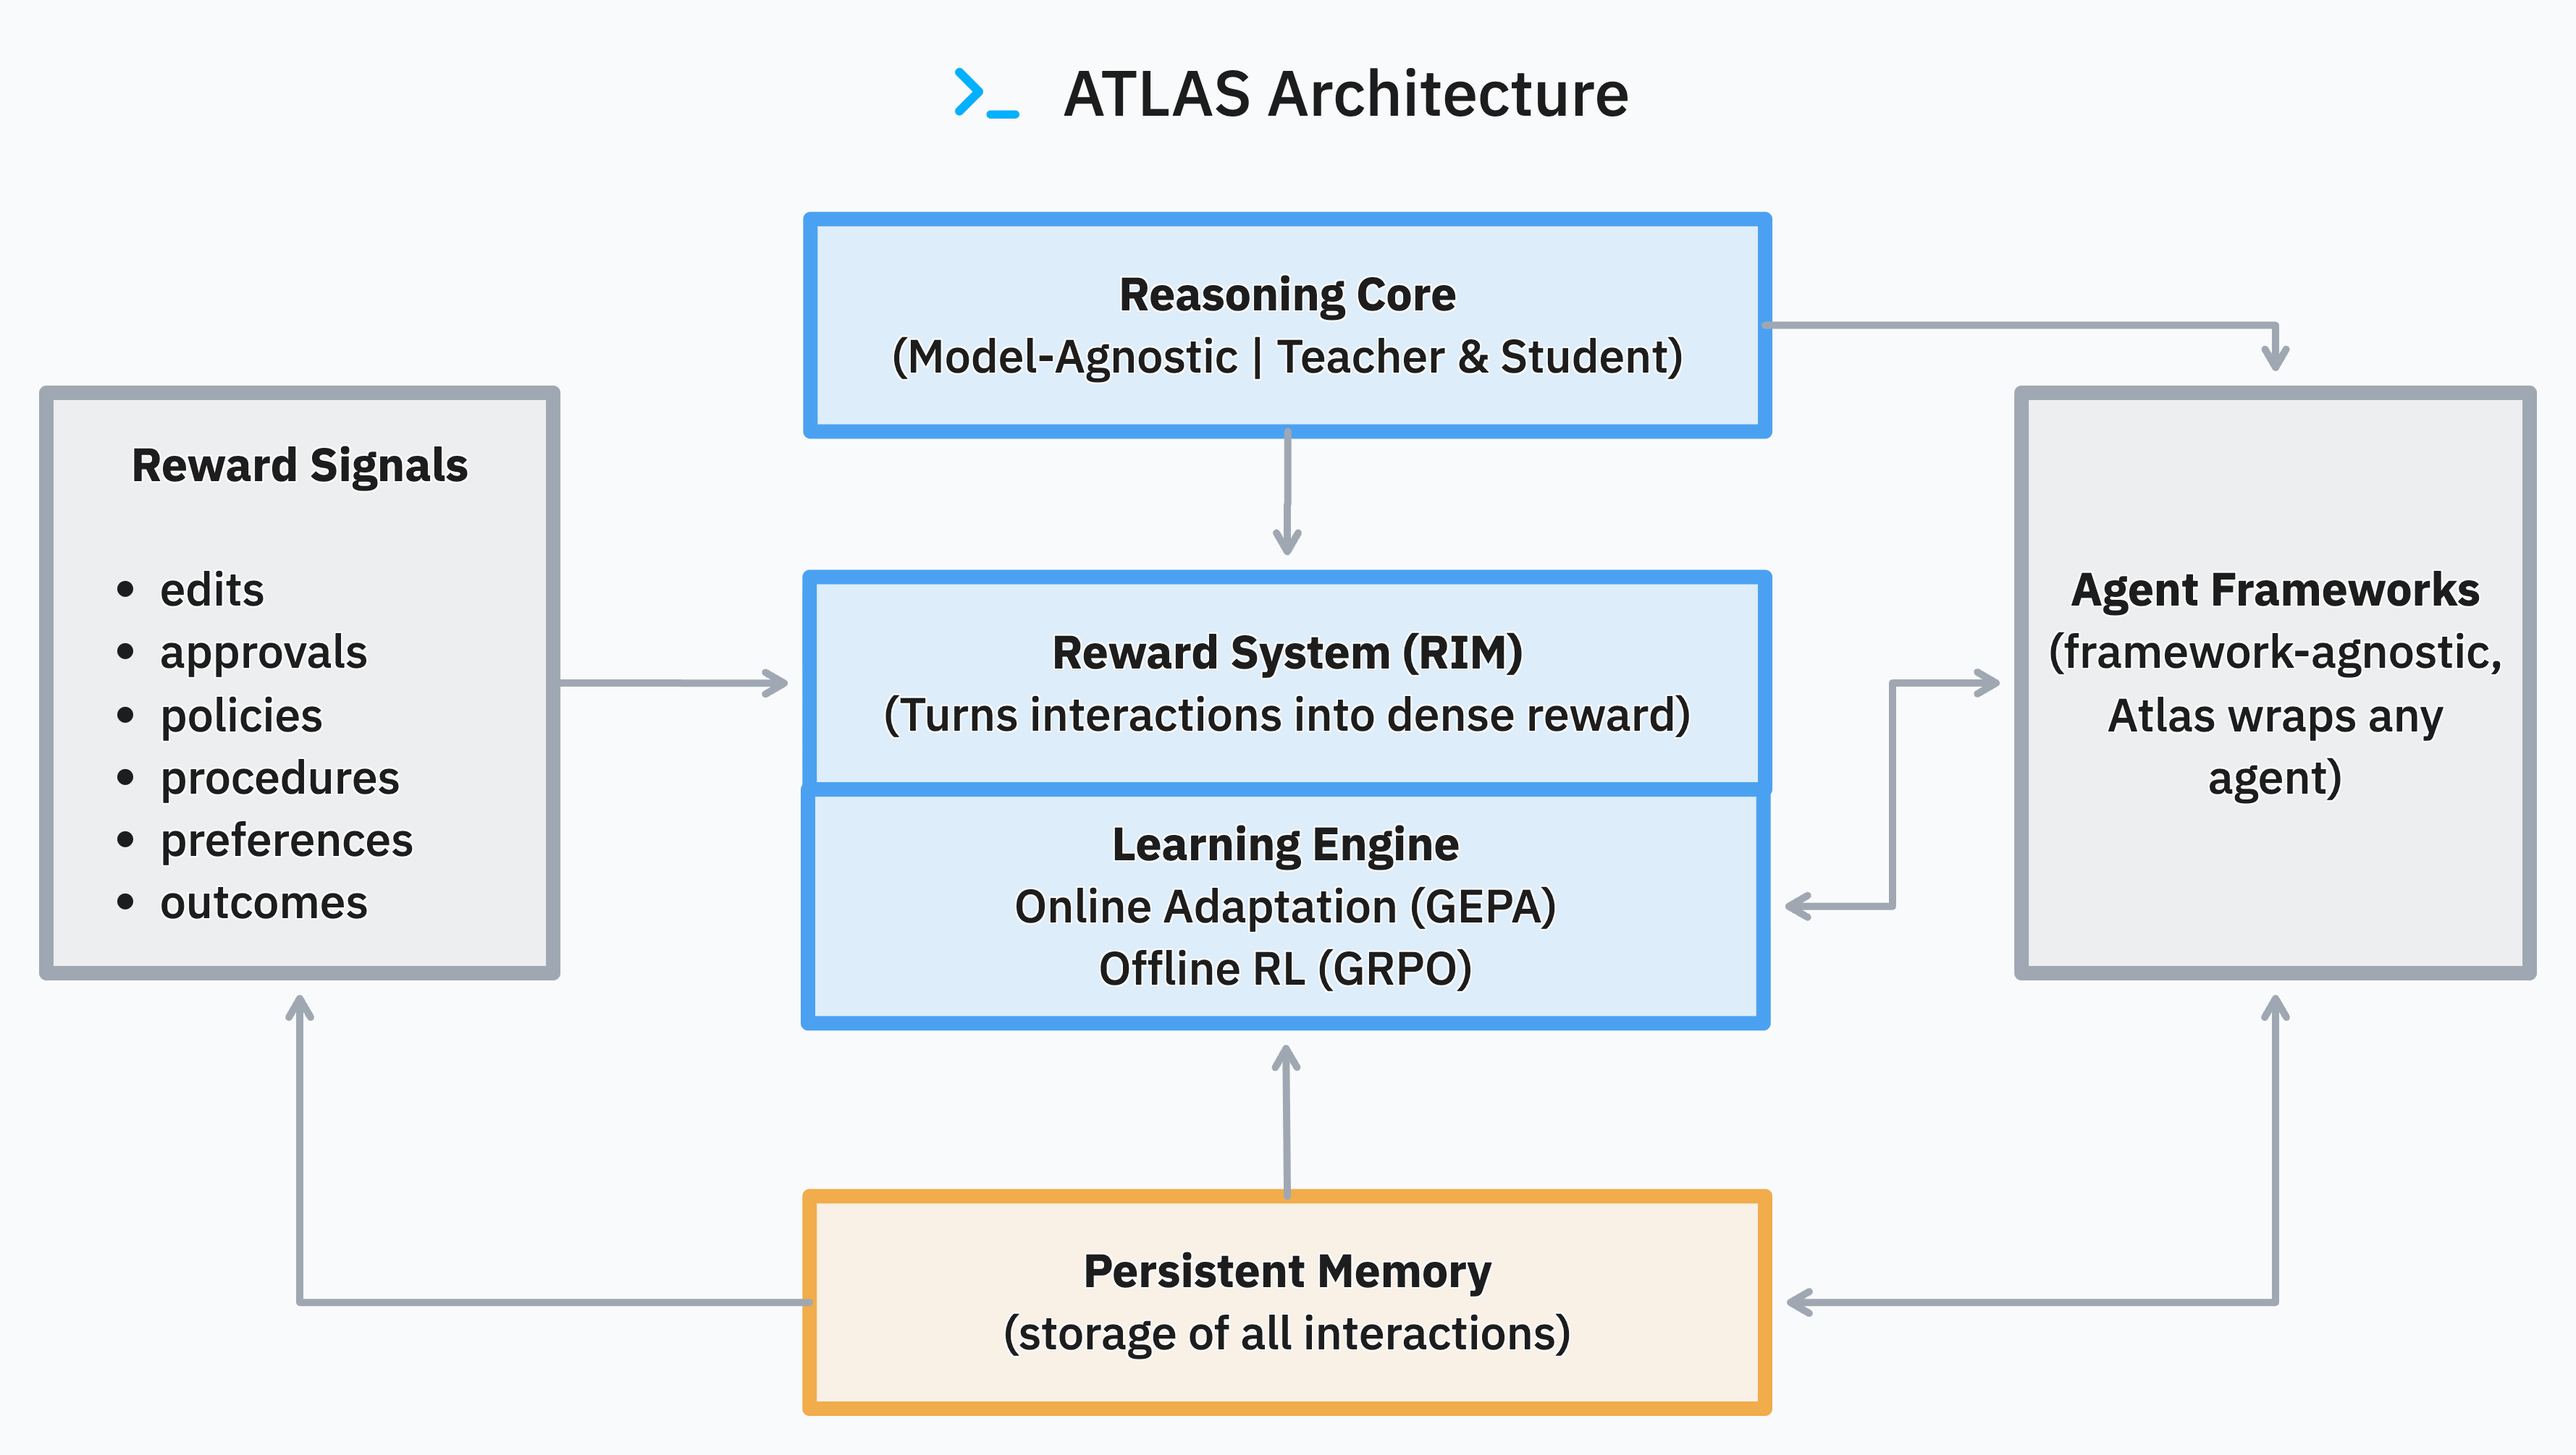
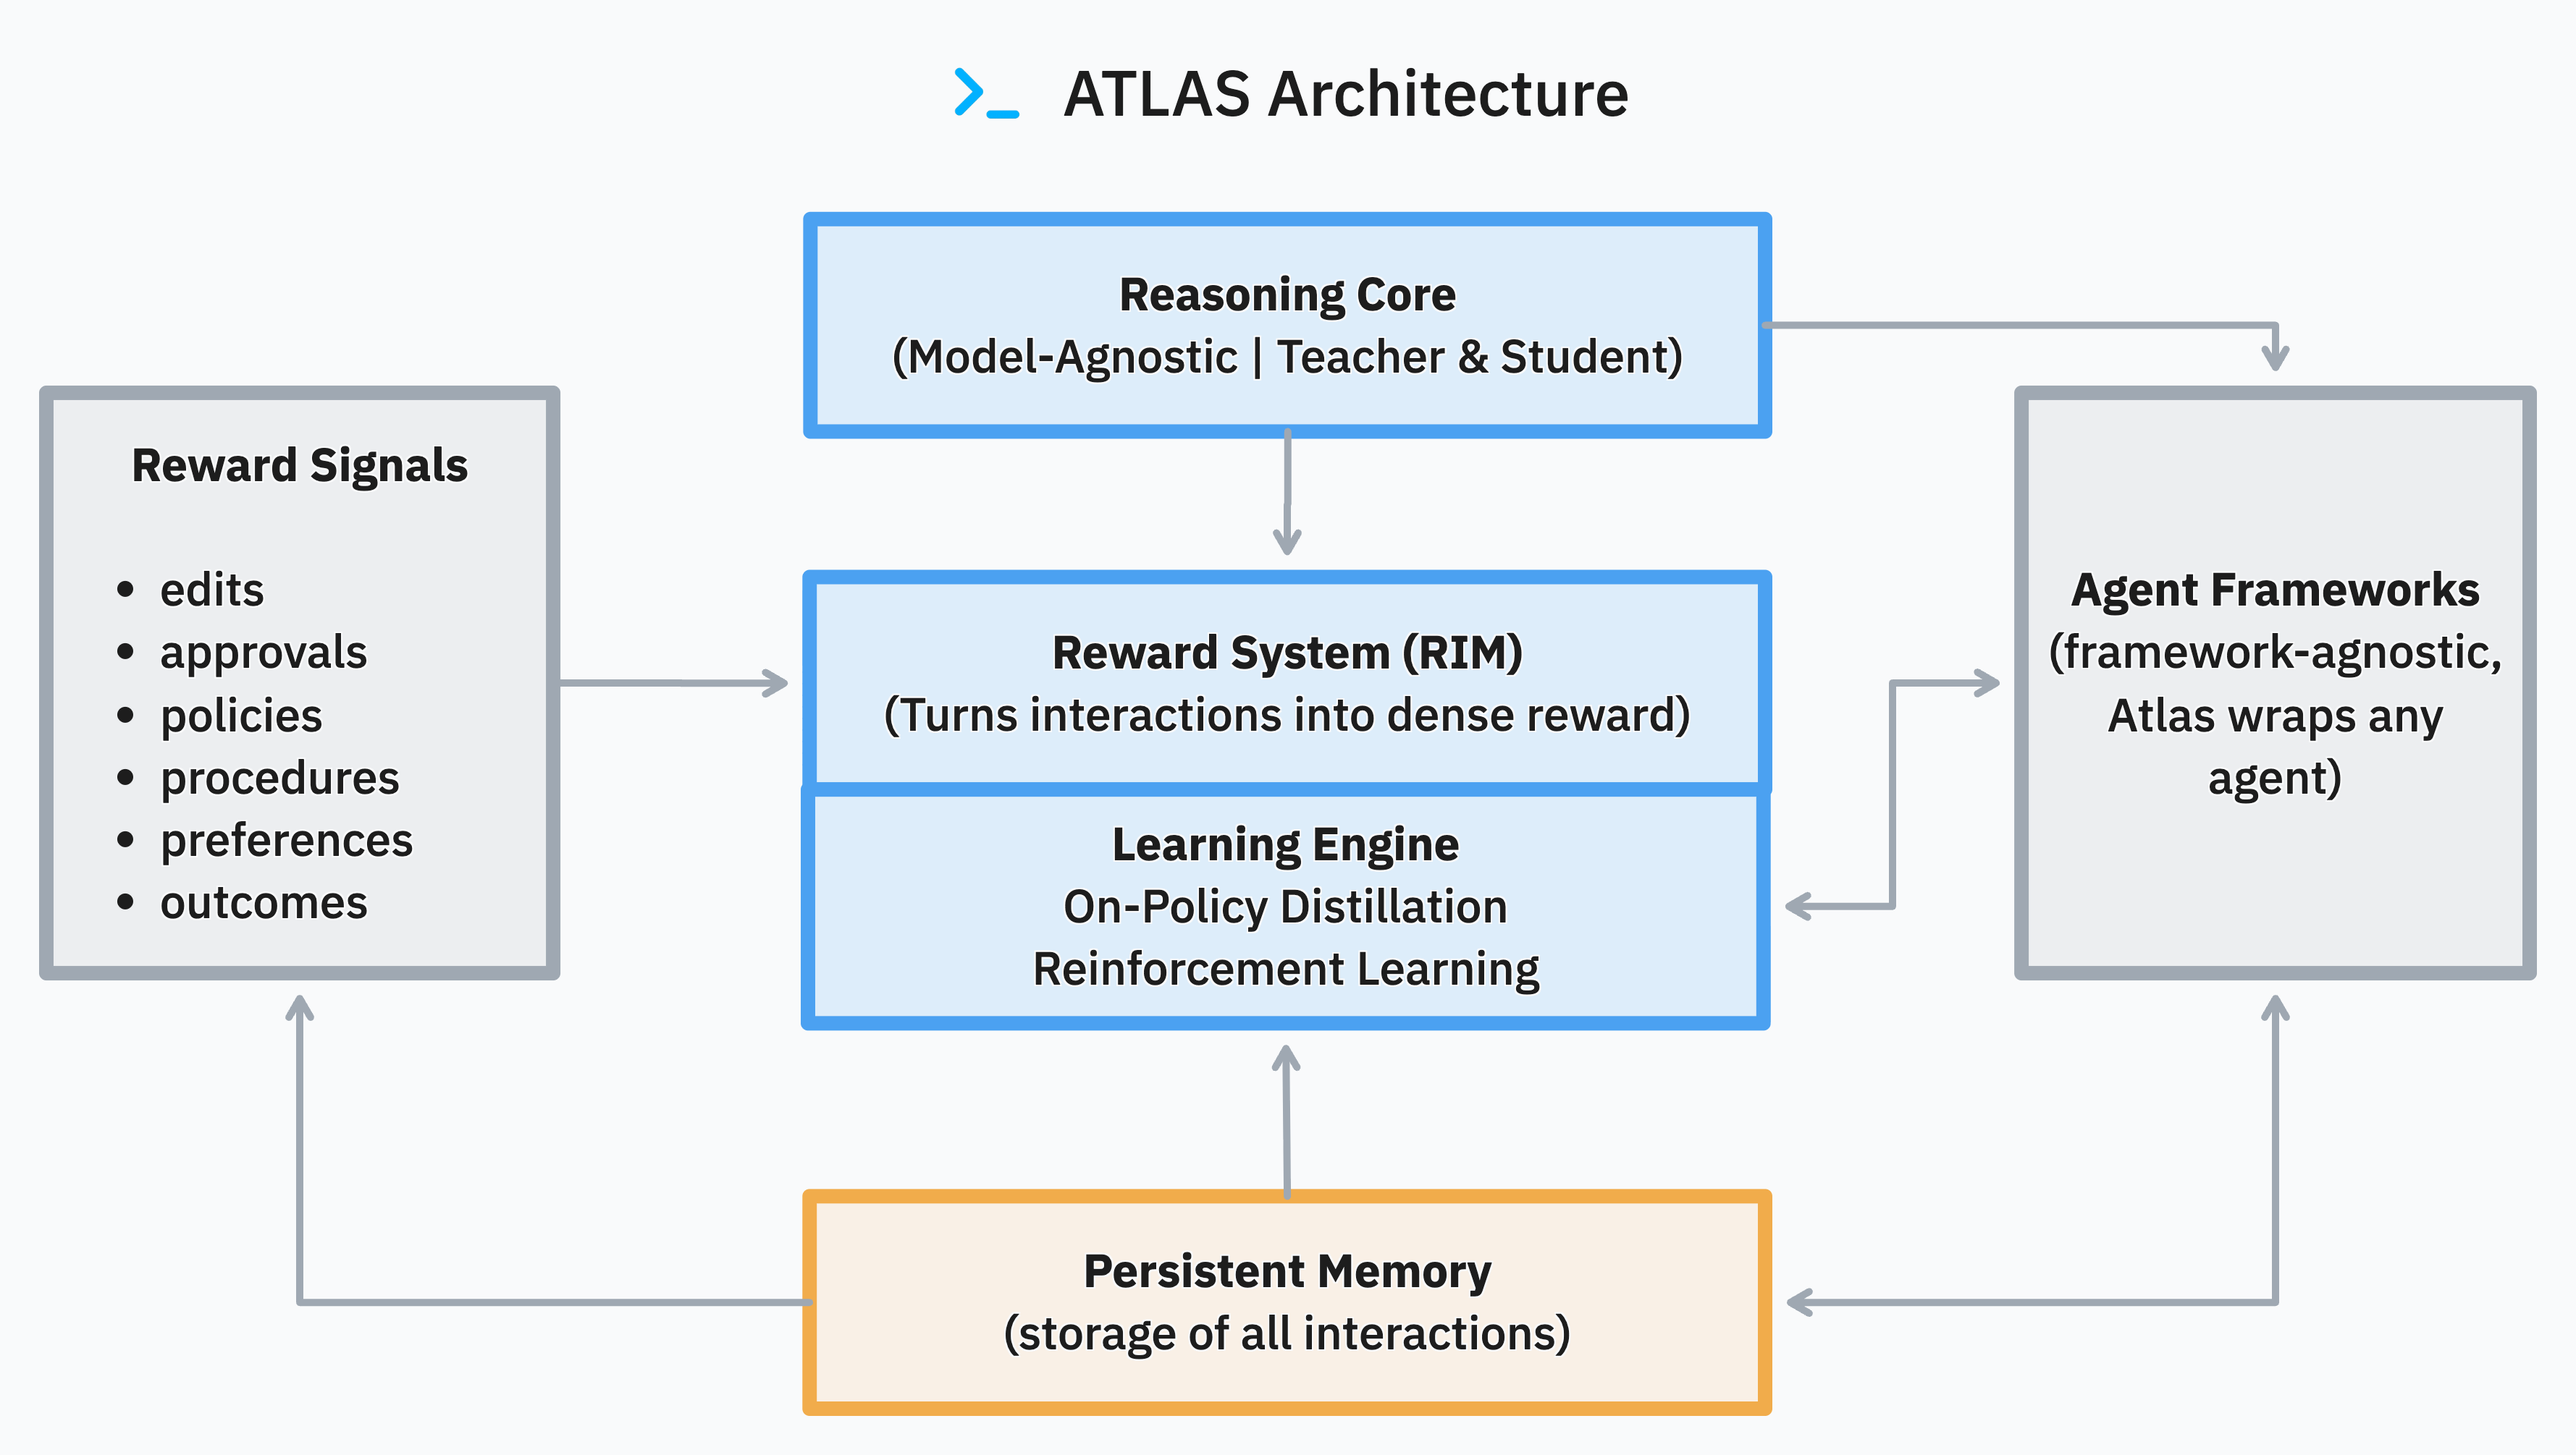
docs: simplify README by removing redundant sections
Reduced cognitive load for Staff/Senior Staff ML Engineers:

1. Removed architecture bullet points
   - Diagram + caption already convey the system architecture
   - Bullet points repeated information from "What is Atlas?" section

2. Removed "What's in this Repository" section
   - File tree walkthrough adds little value for technical audience
   - Engineers will explore the codebase directly

3. Removed "Configuration Overview" section
   - Technical Hydra details interrupt flow before quickstart
   - Details available in Training Configuration guide

4. Removed "escalate" lane from all references
   - Updated in SDK description, workflow steps

5. Updated system-architecture.png
   - New diagram reflects current system design

Result: Cleaner flow from concept → architecture → quickstart → capabilities
without repetition. README is 30% shorter while maintaining clarity.

Changed region(s): [[0.3744, 0.5858, 0.6239, 0.6783]]

diff --git a/README.md b/README.md
@@ -17,62 +17,24 @@
 
 Atlas is the learning layer for production agents, enabling continual learning from complex, high-stakes workflows. For teams pushing beyond context engineering into reinforcement learning and adaptive systems, Atlas captures the causality data needed to improve models from real-world agent execution.
 
-The **Atlas SDK** wraps existing agent systems in a dual-agent reasoning loop without requiring codebase refactoring. It automatically discovers your agent configuration, routes supervision dynamically across lanes (auto, paired, coach, escalate), and captures causality traces (student attempt → teacher intervention → outcome) while streaming rich telemetry to Postgres.
+The **Atlas SDK** wraps existing agent systems in a dual-agent reasoning loop without requiring codebase refactoring. It automatically discovers your agent configuration, routes supervision dynamically across lanes (auto, paired, coach), and captures causality traces (student attempt → teacher intervention → outcome) while streaming rich telemetry to Postgres.
 
 **Atlas Core** (this repository) handles offline training with GRPO and on-policy distillation (GKD), sharing reward adapters with the runtime to train new teacher checkpoints from the causality data captured by the SDK. One-command model training that learns from your agent's actual execution patterns.
-
-| When you need… | Use | Highlights |
-|----------------|-----|------------|
-| Runtime continual learning with causality capture | [`Arc-Computer/atlas-sdk`](https://github.com/Arc-Computer/atlas-sdk) | Wraps existing agents without refactoring, auto-discovers config, dynamic supervision routing, captures student→teacher→outcome traces, Postgres telemetry |
-| Offline training from causality data | `Arc-Computer/ATLAS` (this repo) | GRPO/GKD trainers, shared reward adapters, one-command training, checkpoint management |
-
-<div align="center">
-  <img src="public/runtime-2.png" alt="Atlas SDK adaptive runtime flow diagram showing triage, capability probe, and lane routing (auto, paired, coach, escalate)" width="900" />
-  <p><em>The runtime SDK triages each task, probes capability, and routes it into the right supervision lane before your agent executes.</em></p>
-</div>
 
 ## Architecture at a Glance
 
 <div align="center">
   <img src="docs/images/system-architecture.png" alt="Atlas architecture showing reasoning core, reward system, learning engine, and persistent memory connected to agent frameworks" width="900" style="border-radius: 12px;" />
-  <p><em>Runtime episodes feed the reward system and persistent memory; Atlas Core consumes those exports to train new teachers with GRPO.</em></p>
+  <p><em>The SDK captures causality traces and feeds the reward system; Atlas Core trains new teacher checkpoints from this data.</em></p>
 </div>
-
-- **Reasoning Core** – Student and verifying teacher personas live in `atlas-sdk`, wrapping your agent with adaptive supervision in lanes (`auto`, `paired`, `coach`, `escalate`).
-- **Reward System (RIM)** – Shared reward adapters score every step and session; the same evaluators label both runtime telemetry and offline training data, ensuring consistency between online adaptation and offline optimization.
-- **Learning Engine** – GRPO and GKD trainers in this repo ingest causality traces to produce updated teacher checkpoints, closing the learning loop.
-- **Persistent Memory** – Postgres captures causality data (student attempts → teacher interventions → outcomes), triage dossiers, and reward breakdowns so the learning loop compounds over time.
 
 ## End-to-End Workflow
 
-1. **Wrap your agent with the runtime SDK** – Follow the [`SDK Quickstart`](https://docs.arc.computer/sdk/quickstart) to install `arc-atlas`, run discovery with `atlas env init`, and execute tasks via `atlas run` or `atlas.core.run`. Each task is triaged, probed, and routed into `auto`, `paired`, `coach`, or `escalate`, while adaptive summaries, persona updates, and rewards are recorded.
+1. **Wrap your agent with the runtime SDK** – Follow the [`SDK Quickstart`](https://docs.arc.computer/sdk/quickstart) to install `arc-atlas`, run discovery with `atlas env init`, and execute tasks via `atlas run` or `atlas.core.run`. Each task is triaged, probed, and routed into `auto`, `paired`, or `coach`, while adaptive summaries, persona updates, and rewards are recorded.
 2. **Persist and export telemetry** – Provision Postgres with `atlas init` (optional helper) and export sessions with `arc-atlas --database-url … --include-status approved --output traces.jsonl`. Before exporting new data, review and approve pending sessions using `arc-atlas review` so only trusted traces feed training. Every record carries the triage dossier, lane decision, probe confidence, guidance, reward breakdowns, and review status.
 3. **Train offline with Atlas Core** – Use this repository’s GRPO pipeline (`python scripts/run_offline_pipeline.py --export-path <traces.jsonl>`) to turn runtime traces into a new teacher checkpoint. Redeploy the checkpoint back through the SDK to close the loop.
 
 This hand-off keeps the learning flywheel tight: runtime captures adaptive behaviour, exports become training data, and Atlas Core ships the update back into production.
-
-## What's in this Repository
-
-- `scripts/run_offline_pipeline.py` – One-command launcher that composes Hydra configs, spins up GRPO training, and handles logging/output directories.
-- `configs/` – Hydra library for models, datasets (`runtime_traces.yaml`), trainers (`teacher_grpo.yaml`), and ready-to-run recipes (e.g., `configs/run/teacher_sft.yaml`, `configs/run/teacher_grpo.yaml`).
-- `RIM/` – Reward adapters and judge definitions shared between runtime evaluation and offline training.
-- `train.py` / `trainers/` – Core GRPO loop, data loaders, and evaluation utilities.
-- `docs/` – Mintlify docs (synced with [docs.arc.computer](https://docs.arc.computer)) covering runtime orchestration and training deep dives.
-
-## Configuration Overview
-
-Hydra bundles Atlas defaults into composable groups:
-
-- `model@_global_` → `configs/model/`
-- `data@_global_` → `configs/data/`
-- `trainer@_global_` → `configs/trainer/`
-
-Starter configs ship in:
-
-- `configs/examples/quickstart.yaml` (minimal overrides for the helper script)
-- `configs/run/teacher_rcl.yaml` (reward conditioned learning recipe for GRPO training)
-
-Deep dives and override recipes live in the [Training Configuration guide](https://docs.arc.computer/training/configuration).
 
 ## Offline Quickstart
 
